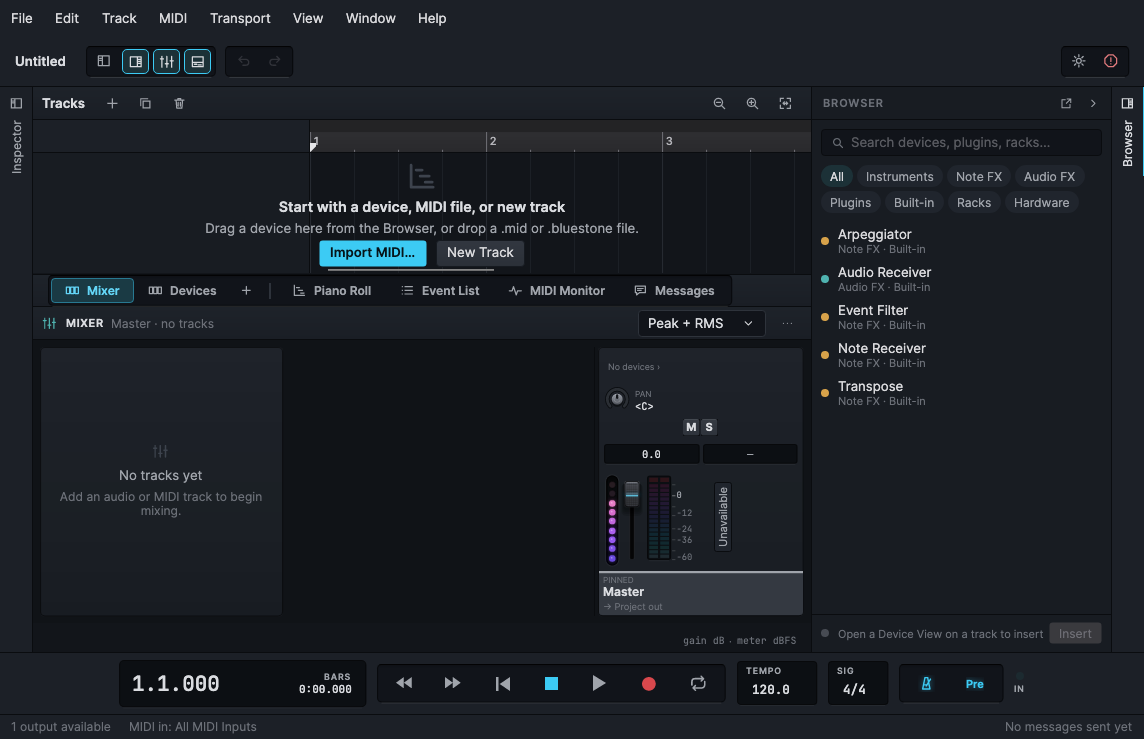
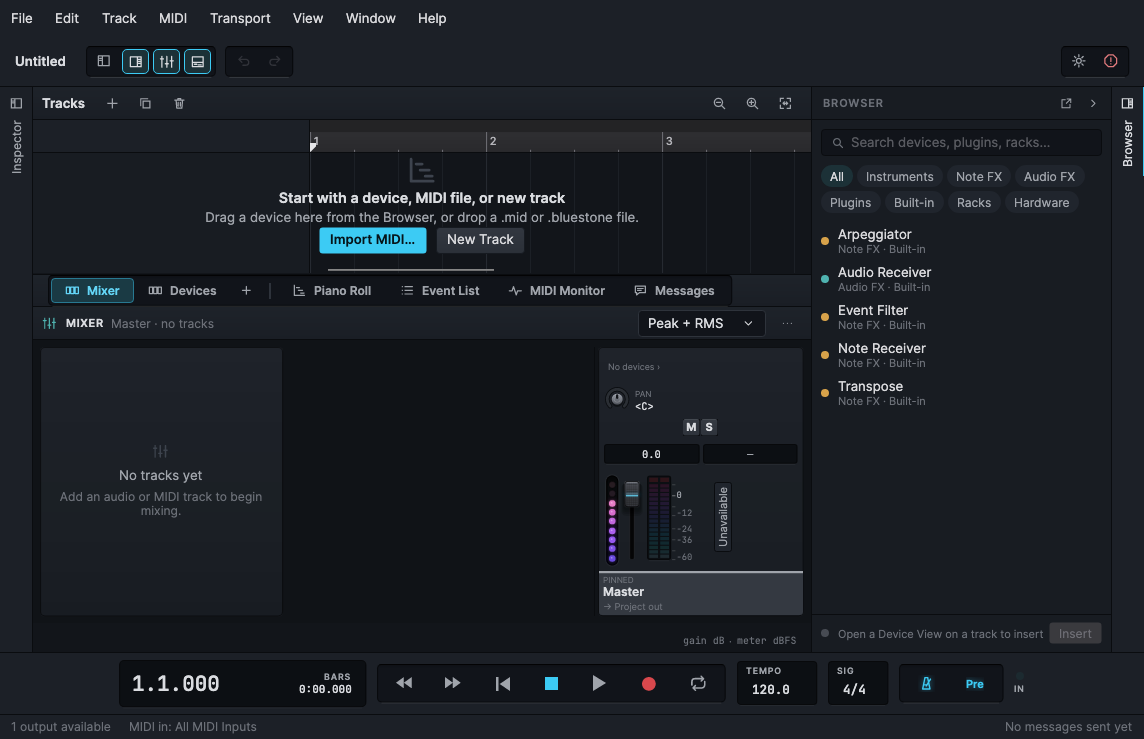
Preserve timeline access and Inter license

Changed region(s): [[0.1836, 0.2179, 0.5507, 0.3735]]

diff --git a/src/dotnet/Bluestone.Tests.Ui/TimelineNavigationUiTests.cs b/src/dotnet/Bluestone.Tests.Ui/TimelineNavigationUiTests.cs
@@ -1,5 +1,8 @@
 using Avalonia;
 using Avalonia.Controls;
+using Avalonia.Headless;
+using Avalonia.Layout;
+using Avalonia.VisualTree;
 using Bluestone.Application.Editing;
 using Bluestone.Application.Sessions;
 using Bluestone.Desktop.Controls;
@@ -37,6 +40,68 @@ public sealed class TimelineNavigationUiTests
 
     // The beat ruler's lower part (below the loop strip).
     private const double BeatRulerY = 22;
+
+    [Theory]
+    [InlineData(false)]
+    [InlineData(true)]
+    public Task EmptyArrangement_HorizontalScrollbarRespondsToPointer(bool wideDocks) => HeadlessApp.RunAsync(async () =>
+    {
+        await using var app = await AppUnderTest.OpenAsync(nativeMenuBar: wideDocks);
+        app.Window.Width = wideDocks ? 1040 : 1440;
+        app.Window.Height = wideDocks ? 640 : 900;
+        if (wideDocks)
+        {
+            app.Window.SetRenderScaling(1.1);
+            app.Find<NativeMenuBar>("MenuBar").IsVisible = false;
+            app.ViewModel.Workspace.Inspector.ShowCommand.Execute(null);
+            app.ViewModel.Workspace.Browser.ShowCommand.Execute(null);
+            app.ViewModel.Workspace.Mixer.ShowCommand.Execute(null);
+            app.ViewModel.Workspace.LeftExtent = 300;
+            app.ViewModel.Workspace.RightExtent = 400;
+            app.ViewModel.Workspace.DetailExtent = 1000;
+        }
+
+        app.Settle();
+        Assert.Empty(app.ViewModel.Tracks);
+        if (wideDocks)
+        {
+            var import = app.Window.GetVisualDescendants().OfType<Button>().Single(b => b.IsEffectivelyVisible && Equals(b.Content, "Import MIDI…"));
+            var emptyScroller = import.GetVisualAncestors().OfType<ScrollViewer>().First();
+            Assert.True(emptyScroller.Extent.Height > emptyScroller.Viewport.Height, "The empty state should need vertical scrolling.");
+            var vertical = emptyScroller.GetVisualDescendants().OfType<Avalonia.Controls.Primitives.ScrollBar>()
+                .Single(bar => bar.Orientation == Orientation.Vertical && bar.IsEffectivelyVisible);
+            Assert.True(vertical.Bounds.Width > 0 && vertical.Bounds.Height > 0, "The empty-state vertical scrollbar should be present.");
+        }
+
+        var scroller = app.Find<ScrollViewer>("TimelineScroller");
+        Assert.True(scroller.Extent.Width > scroller.Viewport.Width, "The empty timeline must extend beyond the viewport.");
+        var scrollbar = scroller.GetVisualDescendants().OfType<Avalonia.Controls.Primitives.ScrollBar>()
+            .Single(bar => bar.Orientation == Orientation.Horizontal && bar.IsEffectivelyVisible);
+        Assert.True(scrollbar.IsEffectivelyEnabled);
+        Assert.Equal(0, scroller.Offset.X);
+
+        // Click inside the visible scrollbar, away from the adjacent dock and detail resize handles.
+        var local = new Point(scrollbar.Bounds.Width * (wideDocks ? 0.75 : 0.8), scrollbar.Bounds.Height * (wideDocks ? 0.35 : 0.5));
+        var point = app.InWindow(scrollbar, local);
+        if (wideDocks)
+        {
+            var browser = app.Find<Control>("BrowserDock");
+            var handle = app.Find<Control>("DetailHandle");
+            Assert.True(point.X < app.InWindow(browser, default).X - 5, "The click must avoid the browser resize handle.");
+            Assert.True(point.Y < app.InWindow(handle, default).Y - 2, "The click must avoid the detail resize handle.");
+            // In this narrow viewport the scroll track collapses; its right-arrow button is still visible.
+            var rightArrow = scrollbar.GetVisualDescendants().OfType<Control>()
+                .Single(button => button.Name == "PART_LineDownButton");
+            var arrowBounds = new Rect(app.InWindow(rightArrow, default), rightArrow.Bounds.Size);
+            Assert.True(point.X > arrowBounds.Left + 1 && point.X < arrowBounds.Right - 1 &&
+                        point.Y > arrowBounds.Top + 1 && point.Y < arrowBounds.Bottom - 1,
+                $"The click must be inside the scrollbar's right arrow: click {point}, arrow {arrowBounds}.");
+        }
+
+        app.ClickAt(scrollbar, local);
+
+        Assert.True(scroller.Offset.X > 0, $"Clicking the horizontal scrollbar should scroll the empty timeline; offset was {scroller.Offset.X}, scrollbar bounds {scrollbar.Bounds}, click {point}.");
+    });
 
     [Fact]
     public Task AClickInTheBeatRuler_Seeks_AndADragUpZoomsInAroundThePressedPosition() => HeadlessApp.RunAsync(async () =>

diff --git a/src/dotnet/Bluestone.Tests.Ui/ThemeFontTests.cs b/src/dotnet/Bluestone.Tests.Ui/ThemeFontTests.cs
@@ -13,6 +13,7 @@ namespace Bluestone.Tests.Ui;
 public sealed class ThemeFontTests
 {
     [Theory]
+    [InlineData("Inter-OFL.txt", "The Inter Project Authors")]
     [InlineData("JetBrainsMono-OFL.txt", "The JetBrains Mono Project Authors")]
     [InlineData("NotoMusic-OFL.txt", "The Noto Project Authors")]
     public void TheBuildOutput_ContainsReadableFontLicenseNotices(string fileName, string authors)

diff --git a/docs/engineering-handoff.md b/docs/engineering-handoff.md
@@ -312,3 +312,5 @@ known gaps, but it is not priority order. Use [release-1.0.md](release-1.0.md) f
 14. **Typography and compact workspace verification:** review the fixed fonts and revised empty state in the running
     app at compact and normal sizes, including populated and active states, keyboard focus, and a screen reader.
     The user accepted proceeding without those live checks. Status text also has low contrast against its background.
+    At extremely narrow center widths, the mixer heading can overlap the meter-mode selector; whether the font change
+    caused or worsened this has not been established.

diff --git a/docs/adr/0036-semantic-workspace-and-device-view.md b/docs/adr/0036-semantic-workspace-and-device-view.md
@@ -93,7 +93,7 @@ custom-drawn controls need, and a UI test keeps the two in step. Small Bluestone
 are custom where the stock control would look generic; ordinary layout and text stay stock.
 
 `Font.Ui` uses the packaged Avalonia Inter family, and `Font.Mono` uses bundled JetBrains Mono. Both use bundled
-Noto Music as a fallback for musical symbols. The bundled fonts include their SIL OFL 1.1 licenses in
+Noto Music as a fallback for musical symbols. All three include their SIL OFL 1.1 licenses in
 `Bluestone.Desktop/Assets/Fonts`; fonts are fixed rather than user-selectable.
 
 ### Local layout state
